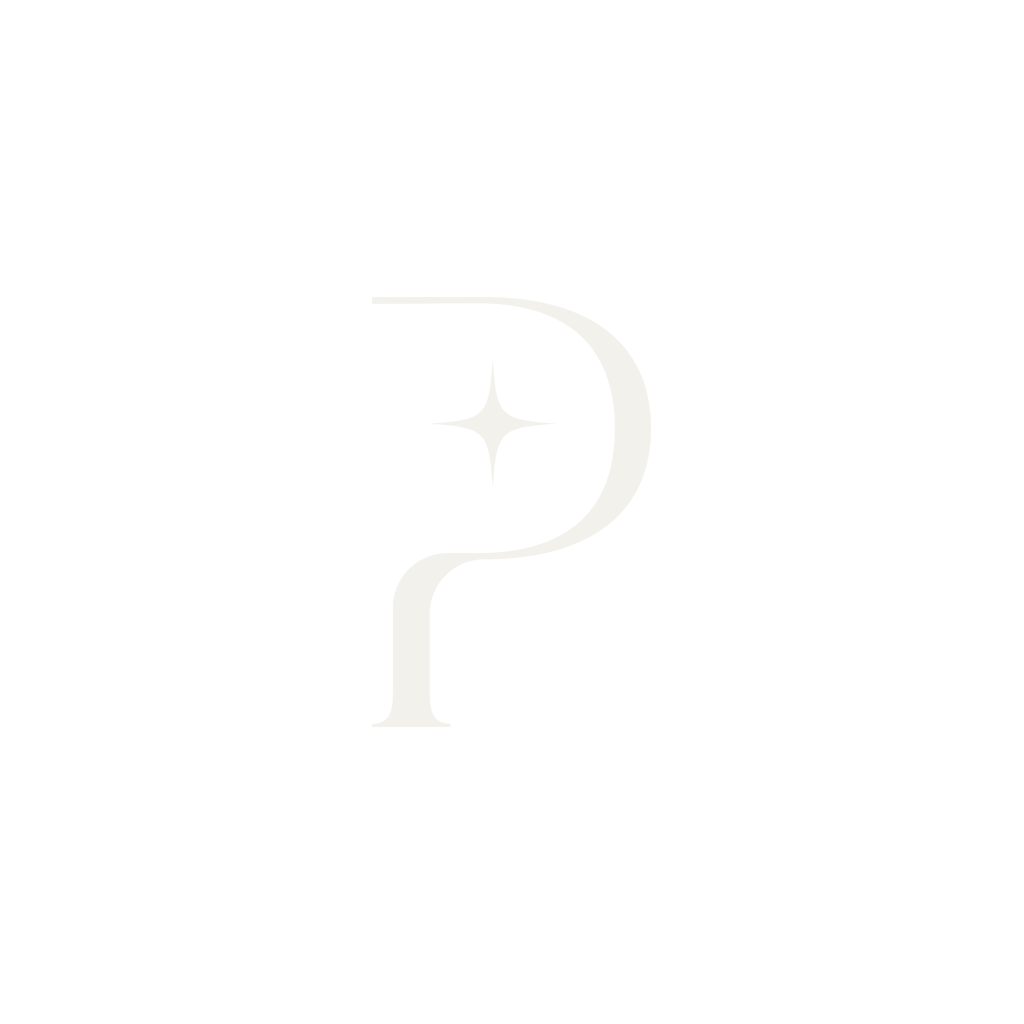
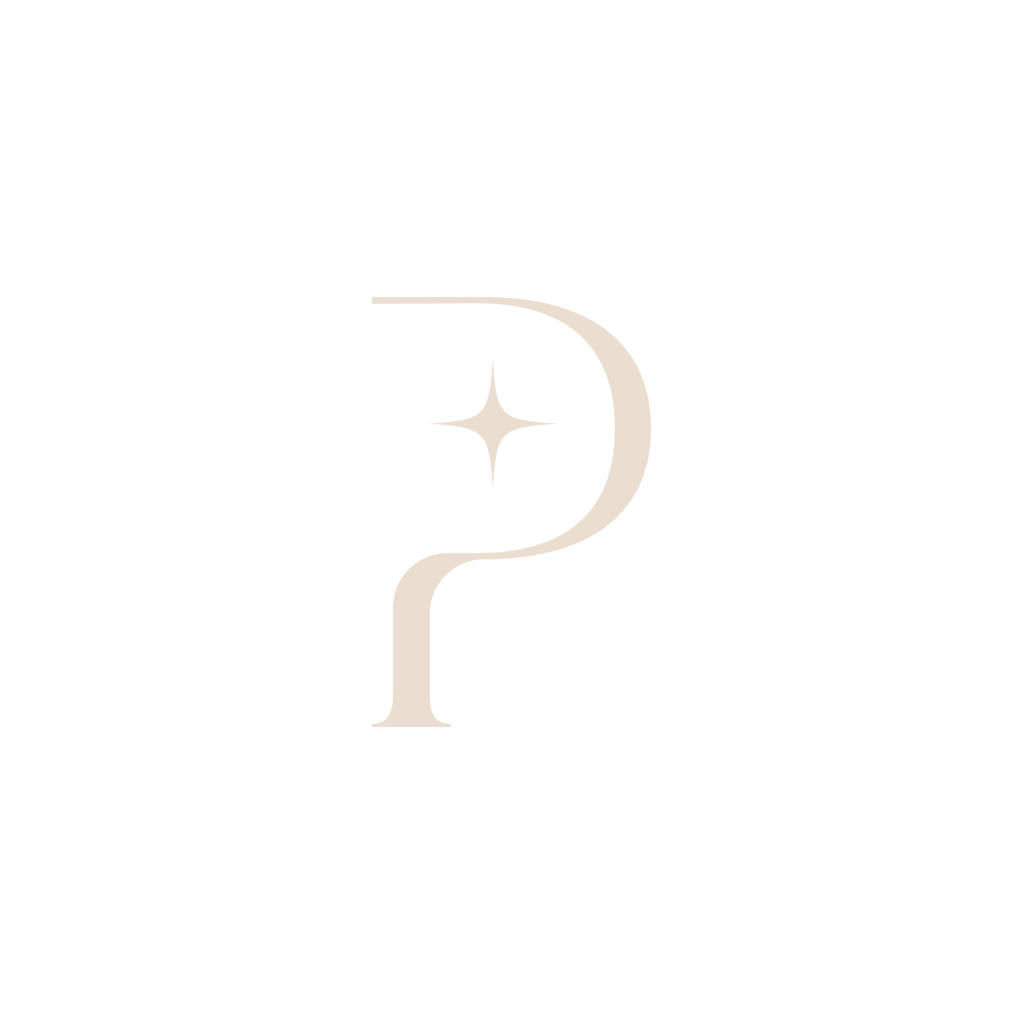
Recolor with the Purpose Press palette (olive dominant)
Olive #4c4c34, cream #ebded0, dark brown #423934, tan #c6ac90, brown #7b4c2b.
Theme tokens, olive tab bar, title screen, icon, splash, logos, and admin page.

Claude-Session: https://claude.ai/code/session_01PfFB4XdUdQRRjh4XT8DiXX

Changed region(s): [[0.375, 0.3125, 0.6562, 0.7188], [0.375, 0.2812, 0.5625, 0.3125], [0.4375, 0.375, 0.5312, 0.4688]]

diff --git a/lib/theme.ts b/lib/theme.ts
@@ -1,40 +1,50 @@
 import { useColorScheme } from "react-native";
 
+// Purpose Press palette: olive #4c4c34 (dominant), cream #ebded0, dark brown #423934,
+// tan #c6ac90, brown #7b4c2b. Token names are kept from the first design:
+// "pine" is the primary (olive) color and "blaze" is the accent (brown/tan).
 export const palettes = {
   light: {
-    bg: "#f3f1ec",
-    surface: "#fbfaf7",
-    ink: "#1f2a24",
-    muted: "#5d6a62",
-    line: "#d9d6cc",
-    pine: "#2f5a45",
-    pineSoft: "#dfe9e2",
-    blaze: "#c98a1b",
-    onPine: "#f3f1ec",
+    bg: "#ebded0", // cream
+    surface: "#f6efe7", // lighter cream for cards and inputs
+    ink: "#423934", // dark brown
+    muted: "#6b5d52",
+    line: "#d6c6b2",
+    pine: "#4c4c34", // olive, the dominant color
+    pineSoft: "#dcd8c4", // olive tint on cream
+    blaze: "#7b4c2b", // brown accent
+    onPine: "#f6efe7",
+    tabBar: "#4c4c34",
+    tabActive: "#ebded0",
+    tabInactive: "#c6ac90",
   },
   dark: {
-    bg: "#141a17",
-    surface: "#1b2420",
-    ink: "#e6ebe7",
-    muted: "#9aa89f",
-    line: "#2e3a34",
-    pine: "#7fb79a",
-    pineSoft: "#22322a",
-    blaze: "#e3a63f",
-    onPine: "#141a17",
+    bg: "#26211e",
+    surface: "#332c28",
+    ink: "#ebded0",
+    muted: "#c6ac90",
+    line: "#4a403a",
+    pine: "#b4b08a", // olive, lightened to read on dark
+    pineSoft: "#3a3a2c",
+    blaze: "#c6ac90", // tan accent
+    onPine: "#26211e",
+    tabBar: "#3a3a28",
+    tabActive: "#ebded0",
+    tabInactive: "#a8957e",
   },
 };
 
 export type Palette = typeof palettes.light;
 
-// The title screen keeps the same deep green in both themes.
+// The title screen keeps the olive in both themes.
 export const splash = {
-  bg: "#2f5a45",
-  bgDark: "#1d3a2c",
-  ink: "#f3f1ec",
-  soft: "#dfe9e2",
-  sub: "#b9cfc1",
-  gold: "#e3a63f",
+  bg: "#4c4c34",
+  bgDark: "#3a3a28",
+  ink: "#ebded0",
+  inkDark: "#423934", // text on cream buttons
+  soft: "#e2d5c6",
+  sub: "#d8c6b0",
+  gold: "#c6ac90", // summit marker (tan)
 };
 
 export const fonts = {

diff --git a/components/Slides.tsx b/components/Slides.tsx
@@ -177,8 +177,8 @@ const styles = StyleSheet.create({
   hint: { fontFamily: fonts.ui, fontSize: 13 },
   viewer: { flex: 1, backgroundColor: "#000" },
   bar: { position: "absolute", flexDirection: "row", justifyContent: "space-between", alignItems: "center" },
-  count: { fontFamily: fonts.uiBold, fontSize: 14, color: "#f3f1ec", fontVariant: ["tabular-nums"] },
-  close: { backgroundColor: "rgba(243,241,236,0.16)", borderRadius: 999, paddingVertical: 7, paddingHorizontal: 16 },
-  closeText: { fontFamily: fonts.uiBold, fontSize: 15, color: "#f3f1ec" },
-  tip: { position: "absolute", left: 0, right: 0, textAlign: "center", fontFamily: fonts.ui, fontSize: 13, color: "rgba(243,241,236,0.7)" },
+  count: { fontFamily: fonts.uiBold, fontSize: 14, color: "#ebded0", fontVariant: ["tabular-nums"] },
+  close: { backgroundColor: "rgba(235,222,208,0.16)", borderRadius: 999, paddingVertical: 7, paddingHorizontal: 16 },
+  closeText: { fontFamily: fonts.uiBold, fontSize: 15, color: "#ebded0" },
+  tip: { position: "absolute", left: 0, right: 0, textAlign: "center", fontFamily: fonts.ui, fontSize: 13, color: "rgba(235,222,208,0.7)" },
 });

diff --git a/admin/index.html b/admin/index.html
@@ -10,15 +10,15 @@
 <script src="https://cdn.jsdelivr.net/npm/@supabase/supabase-js@2.45.4/dist/umd/supabase.js"></script>
 <style>
 :root{
-  --bg:#f3f1ec; --surface:#fbfaf7; --ink:#1f2a24; --muted:#5d6a62; --line:#d9d6cc;
-  --pine:#2f5a45; --pine-soft:#dfe9e2; --blaze:#c98a1b; --danger:#a3402f;
+  --bg:#ebded0; --surface:#f6efe7; --ink:#423934; --muted:#6b5d52; --line:#d6c6b2;
+  --pine:#4c4c34; --pine-soft:#dcd8c4; --blaze:#7b4c2b; --danger:#a3402f;
   --display:"Young Serif",Georgia,serif; --body:"Literata",Georgia,serif;
   --ui:"IBM Plex Sans Condensed","Arial Narrow",system-ui,sans-serif;
   color-scheme:light;
 }
 @media (prefers-color-scheme: dark){:root{
-  --bg:#141a17; --surface:#1b2420; --ink:#e6ebe7; --muted:#9aa89f; --line:#2e3a34;
-  --pine:#7fb79a; --pine-soft:#22322a; --blaze:#e3a63f; --danger:#e08572; color-scheme:dark}}
+  --bg:#26211e; --surface:#332c28; --ink:#ebded0; --muted:#c6ac90; --line:#4a403a;
+  --pine:#b4b08a; --pine-soft:#3a3a2c; --blaze:#c6ac90; --danger:#e08572; color-scheme:dark}}
 *{box-sizing:border-box}
 [hidden]{display:none!important}
 html,body{margin:0;height:100%}

diff --git a/components/TopoBackground.tsx b/components/TopoBackground.tsx
@@ -10,8 +10,8 @@ export default function TopoBackground({ background }: { background: string }) {
   const { x, y } = c.summit;
   return (
     <Svg width={width} height={height} style={StyleSheet.absoluteFill} pointerEvents="none">
-      <Path d={c.minor} stroke="rgba(243,241,236,0.15)" strokeWidth={0.8} fill="none" />
-      <Path d={c.index} stroke="rgba(243,241,236,0.34)" strokeWidth={1.4} fill="none" />
+      <Path d={c.minor} stroke="rgba(235,222,208,0.15)" strokeWidth={0.8} fill="none" />
+      <Path d={c.index} stroke="rgba(235,222,208,0.34)" strokeWidth={1.4} fill="none" />
       {c.labels.map((l) => (
         <React.Fragment key={l.text + l.x}>
           <Rect x={l.x - 20} y={l.y - 7} width={40} height={14} fill={background} />
@@ -20,7 +20,7 @@ export default function TopoBackground({ background }: { background: string }) {
             y={l.y + 3.5}
             fontSize={10}
             fontWeight="600"
-            fill="rgba(243,241,236,0.55)"
+            fill="rgba(235,222,208,0.55)"
             textAnchor="middle"
           >
             {l.text}

diff --git a/app/index.tsx b/app/index.tsx
@@ -62,6 +62,6 @@ const styles = StyleSheet.create({
   subtitle: { fontFamily: fonts.display, fontSize: 26, lineHeight: 34, color: splash.soft, marginTop: 4 },
   tagline: { fontFamily: fonts.body, fontSize: 18, lineHeight: 27, color: splash.soft, marginTop: 16, maxWidth: 300 },
   cta: { backgroundColor: splash.ink, borderRadius: 999, paddingVertical: 15, paddingHorizontal: 28, alignSelf: "flex-start" },
-  ctaText: { fontFamily: fonts.uiBold, fontSize: 17, color: "#1f2a24" },
+  ctaText: { fontFamily: fonts.uiBold, fontSize: 17, color: splash.inkDark },
   sub: { fontFamily: fonts.ui, fontSize: 14, color: splash.sub },
 });

diff --git a/app/(tabs)/_layout.tsx b/app/(tabs)/_layout.tsx
@@ -13,9 +13,9 @@ export default function TabsLayout() {
     <Tabs
       screenOptions={{
         headerShown: false,
-        tabBarActiveTintColor: c.pine,
-        tabBarInactiveTintColor: c.muted,
-        tabBarStyle: { backgroundColor: c.surface, borderTopColor: c.line },
+        tabBarActiveTintColor: c.tabActive,
+        tabBarInactiveTintColor: c.tabInactive,
+        tabBarStyle: { backgroundColor: c.tabBar, borderTopColor: c.tabBar },
         tabBarLabelStyle: { fontFamily: fonts.uiBold, fontSize: 12 },
         sceneStyle: { backgroundColor: c.bg },
       }}
